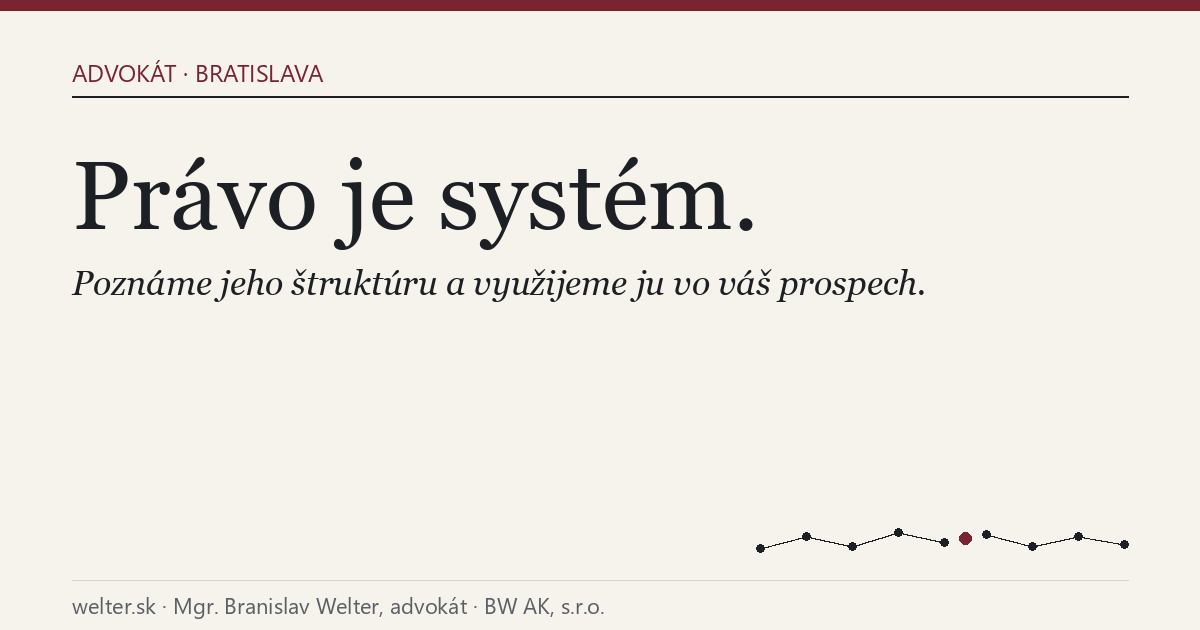
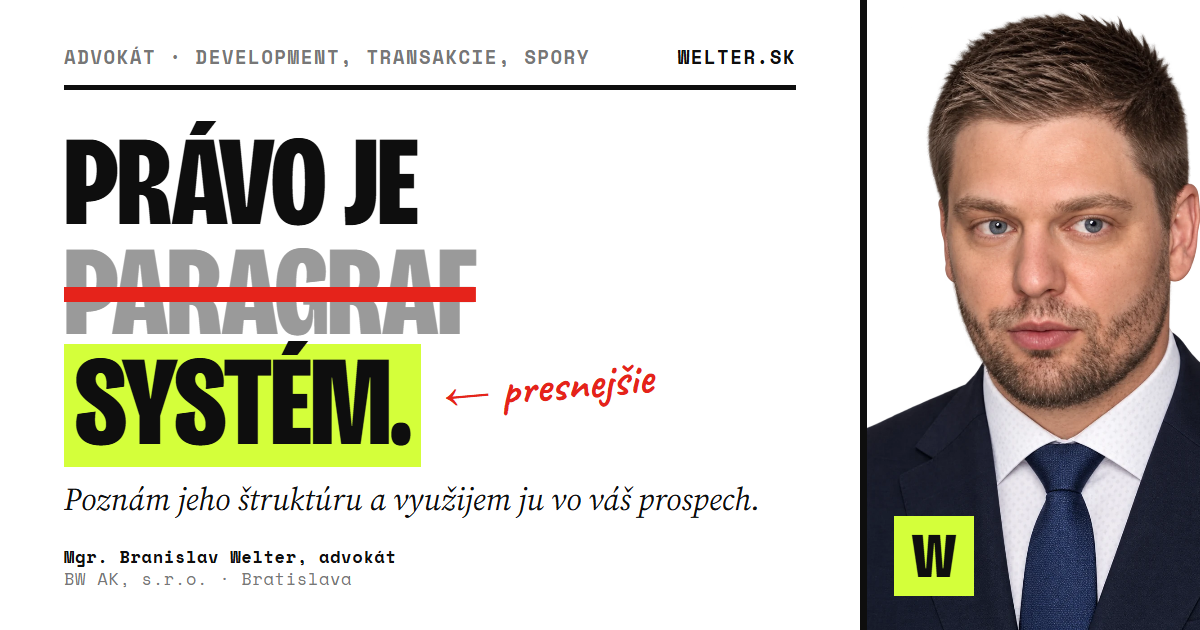
Tón v 1. osobe singuláru, OG obrázky v Brand v1, register médií na mobile
Texty, kde web hovoril za kanceláriu v pluráli, sú v prvej osobe
(„Poznám jeho štruktúru a využijem ju vo váš prospech“, „Napíšte mi“,
„Kde pracujem so štruktúrou“…), vrátane meta description, OG, JSON-LD,
llms.txt a CTA v postrehu. BW AK, s.r.o. ostáva ako firma v pätičke,
kontakte a právnych údajoch; zásady ochrany osobných údajov a lišta
súhlasu hovoria naďalej za prevádzkovateľa.

OG obrázky default.png a postreh (1200×630) prerobené do Brand v1
(rovnaké názvy súborov, URL sa nemenia). Register výstupov na mobile:
dátum a popisky v jednom riadku, titulok pod nimi. Oprava „s.r.o..“
v boxe o autorovi.

Claude-Session: https://claude.ai/code/session_01JwfTDJNpFNvCG3DSFbcCKt

diff --git a/index.html b/index.html
@@ -4,13 +4,13 @@
 <meta charset="utf-8">
 <meta name="viewport" content="width=device-width, initial-scale=1">
 <title>Mgr. Branislav Welter, advokát – BW AK, s.r.o.</title>
-<meta name="description" content="Mgr. Branislav Welter, advokát. Právo je systém. Poznáme jeho štruktúru a využijeme ju vo váš prospech.">
+<meta name="description" content="Mgr. Branislav Welter, advokát. Právo je systém. Poznám jeho štruktúru a využijem ju vo váš prospech.">
 <link rel="canonical" href="https://www.welter.sk/">
 <meta property="og:type" content="website">
 <meta property="og:locale" content="sk_SK">
 <meta property="og:site_name" content="BW AK, s.r.o. – Mgr. Branislav Welter, advokát">
 <meta property="og:title" content="Mgr. Branislav Welter, advokát – BW AK, s.r.o.">
-<meta property="og:description" content="Mgr. Branislav Welter, advokát. Právo je systém. Poznáme jeho štruktúru a využijeme ju vo váš prospech.">
+<meta property="og:description" content="Mgr. Branislav Welter, advokát. Právo je systém. Poznám jeho štruktúru a využijem ju vo váš prospech.">
 <meta property="og:url" content="https://www.welter.sk/">
 <meta property="og:image" content="https://www.welter.sk/img/og/default.png">
 <meta property="og:image:width" content="1200">
@@ -25,7 +25,7 @@
 <link rel="stylesheet" href="/assets/css/site.css">
 <link rel="icon" href="/favicon.svg" type="image/svg+xml">
 <link rel="alternate" type="application/rss+xml" title="Postrehy – welter.sk" href="/feed.xml">
-<script type="application/ld+json">{"@context":"https://schema.org","@graph":[{"@type":"LegalService","@id":"https://www.welter.sk/#organization","name":"BW AK, s.r.o.","legalName":"BW AK, s.r.o.","alternateName":"Advokátska kancelária Welter","description":"Mgr. Branislav Welter, advokát. Právo je systém. Poznáme jeho štruktúru a využijeme ju vo váš prospech.","url":"https://www.welter.sk/","telephone":"+421908849910","email":"advokat@welter.sk","image":"https://www.welter.sk/img/og/default.png","address":{"@type":"PostalAddress","streetAddress":"Dunajská 7614/8","addressLocality":"Bratislava","postalCode":"811 08","addressCountry":"SK"},"geo":{"@type":"GeoCoordinates","latitude":48.1445086,"longitude":17.1149464},"hasMap":"https://www.google.com/maps/place/Dunajsk%C3%A1+8/@48.1445086,17.1149464,19z/data=!4m7!3m6!1s0x476c8943e3603dc7:0x4184066fa842aa5f!4b1!8m2!3d48.1445086!4d17.1149464!16s%2Fg%2F11rp450kx6","areaServed":"SK","priceRange":"na dohodu","identifier":{"@type":"PropertyValue","name":"IČO","propertyID":"ICO","value":"56621957"},"knowsAbout":["Development","Realitné a transakčné štruktúrovanie","Majetkové a obchodné spory"],"employee":{"@id":"https://www.welter.sk/#branislav-welter"},"founder":{"@id":"https://www.welter.sk/#branislav-welter"}},{"@type":"Person","@id":"https://www.welter.sk/#branislav-welter","name":"Mgr. Branislav Welter","honorificPrefix":"Mgr.","givenName":"Branislav","familyName":"Welter","jobTitle":"advokát","worksFor":{"@id":"https://www.welter.sk/#organization"},"url":"https://www.welter.sk/","memberOf":{"@type":"Organization","name":"Slovenská advokátska komora","url":"https://www.sak.sk/"},"identifier":{"@type":"PropertyValue","name":"Licencia SAK","propertyID":"SAK","value":"8229"},"subjectOf":[{"@id":"https://www.welter.sk/media/#stvr-2026-10-11-projekty-bez-opravnenia"},{"@id":"https://www.welter.sk/media/#stvr-2026-09-16-zanedbany-pozemok"},{"@id":"https://www.welter.sk/media/#stvr-2026-06-25-zachrana-maciek"},{"@id":"https://www.welter.sk/media/#stvr-2026-06-14-vytapanie-susedia"},{"@id":"https://www.welter.sk/media/#stvr-2026-04-15-auto-poskodene-skodova-udalost"},{"@id":"https://www.welter.sk/media/#stvr-2026-04-24-amnestia-chatka"},{"@id":"https://www.welter.sk/media/#stvr-2026-03-29-predrazene-revizie"},{"@id":"https://www.welter.sk/media/#stvr-2026-03-21-banovce-dodavka-poistovna"},{"@id":"https://www.welter.sk/media/#stvr-2026-02-27-nahrobne-kamene-trencin"},{"@id":"https://www.welter.sk/media/#stvr-2026-02-08-samozvani-revizni-technici"},{"@id":"https://www.welter.sk/media/#stvr-2025-12-07-poplatok-za-odpad"},{"@id":"https://www.welter.sk/media/#stvr-2025-09-19-reklamacia-dovolenka"},{"@id":"https://www.welter.sk/media/#stvr-2025-10-26-vodomer-platba-za-vodu"},{"@id":"https://www.welter.sk/media/#stvr-2025-10-dunajska-luzna-autolakovna"},{"@id":"https://www.welter.sk/media/#stvr-2025-09-21-opakovane-poziare-domu"},{"@id":"https://www.welter.sk/media/#stvr-2025-06-22-zbierky-darcovia"},{"@id":"https://www.welter.sk/media/#stvr-2025-06-01-zamietnute-prispevky"},{"@id":"https://www.welter.sk/media/#stvr-2025-05-25-fond-oprav-spravca"},{"@id":"https://www.welter.sk/media/#stvr-2025-05-04-socialna-poistovna-dlh"},{"@id":"https://www.welter.sk/media/#stvr-2025-04-06-reklamacia-telefonu"},{"@id":"https://www.welter.sk/media/#stvr-2025-03-23-neplatiaci-najomnici"},{"@id":"https://www.welter.sk/media/#stvr-2025-03-02-eshop-nedodany-tovar"},{"@id":"https://www.welter.sk/media/#stvr-2025-02-09-zumpa-sused"},{"@id":"https://www.welter.sk/media/#stvr-2025-01-19-zruseny-festival"},{"@id":"https://www.welter.sk/media/#stvr-2024-12-15-ukradnute-auto-lizing"},{"@id":"https://www.welter.sk/media/#stvr-2024-12-01-podvod-uspory-banka"},{"@id":"https://www.welter.sk/media/#stvr-2024-11-07-havarijna-cesta"},{"@id":"https://www.welter.sk/media/#stvr-2024-10-26-rozkopana-cesta"},{"@id":"https://www.welter.sk/media/#rtvs-2024-09-24-inzerat-zneuzita-identita"},{"@id":"https://www.welter.sk/media/#rtvs-2024-06-17-rucenie-dom"},{"@id":"https://www.welter.sk/media/#rtvs-2024-05-26-sikana-na-pracovisku"},{"@id":"https://www.welter.sk/media/#rtvs-2024-05-12-pad-pocas-operacie"},{"@id":"https://www.welter.sk/media/#rtvs-2024-03-24-smetisko-bratislava-rukojemnici"},{"@id":"https://www.welter.sk/media/#rtvs-2024-02-28-ucelove-manzelstvo"},{"@id":"https://www.welter.sk/media/#rtvs-2024-01-14-nevyvazena-zmluva-dom"},{"@id":"https://www.welter.sk/media/#rtvs-2023-12-03-namiesto-studenej-vlazna-voda"},{"@id":"https://www.welter.sk/media/#rtvs-2023-11-04-zakon-mimovladne-organizacie"},{"@id":"https://www.welter.sk/media/#rtvs-2023-11-01-agresivny-pes"},{"@id":"https://www.welter.sk/media/#zenskyweb-2023-02-02-ruka-podava-ruze"},{"@id":"https://www.welter.sk/media/#zenskyweb-2023-01-26-podvodnik-pod-vodu"},{"@id":"https://www.welter.sk/media/#zenskyweb-2023-03-10-kto-do-teba-granatom"},{"@id":"https://www.welter.sk/media/#zenskyweb-2023-01-12-dlho-dlzny-dlznik"},{"@id":"https://www.welter.sk/media/#zenskyweb-2023-01-02-z-porodnej-saly"},{"@id":"https://www.welter.sk/media/#slovenka-2022-trestne-nepravo"},{"@id":"https://www.welter.sk/media/#slovenka-2022-diskriminacia-veku"},{"@id":"https://www.welter.sk/media/#slovenka-2022-mozem-deti-vydedit"},{"@id":"https://www.welter.sk/media/#emma-2021-02-podnikanie-byrokracia"}],"image":"https://www.welter.sk/img/portret.jpg"},{"@type":"WebSite","@id":"https://www.welter.sk/#website","name":"welter.sk","url":"https://www.welter.sk/","inLanguage":"sk","publisher":{"@id":"https://www.welter.sk/#organization"}},{"@type":"WebPage","@id":"https://www.welter.sk/#webpage","url":"https://www.welter.sk/","name":"Mgr. Branislav Welter, advokát – BW AK, s.r.o.","isPartOf":{"@id":"https://www.welter.sk/#website"},"about":{"@id":"https://www.welter.sk/#organization"},"inLanguage":"sk"}]}</script>
+<script type="application/ld+json">{"@context":"https://schema.org","@graph":[{"@type":"LegalService","@id":"https://www.welter.sk/#organization","name":"BW AK, s.r.o.","legalName":"BW AK, s.r.o.","alternateName":"Advokátska kancelária Welter","description":"Mgr. Branislav Welter, advokát. Právo je systém. Poznám jeho štruktúru a využijem ju vo váš prospech.","url":"https://www.welter.sk/","telephone":"+421908849910","email":"advokat@welter.sk","image":"https://www.welter.sk/img/og/default.png","address":{"@type":"PostalAddress","streetAddress":"Dunajská 7614/8","addressLocality":"Bratislava","postalCode":"811 08","addressCountry":"SK"},"geo":{"@type":"GeoCoordinates","latitude":48.1445086,"longitude":17.1149464},"hasMap":"https://www.google.com/maps/place/Dunajsk%C3%A1+8/@48.1445086,17.1149464,19z/data=!4m7!3m6!1s0x476c8943e3603dc7:0x4184066fa842aa5f!4b1!8m2!3d48.1445086!4d17.1149464!16s%2Fg%2F11rp450kx6","areaServed":"SK","priceRange":"na dohodu","identifier":{"@type":"PropertyValue","name":"IČO","propertyID":"ICO","value":"56621957"},"knowsAbout":["Development","Realitné a transakčné štruktúrovanie","Majetkové a obchodné spory"],"employee":{"@id":"https://www.welter.sk/#branislav-welter"},"founder":{"@id":"https://www.welter.sk/#branislav-welter"}},{"@type":"Person","@id":"https://www.welter.sk/#branislav-welter","name":"Mgr. Branislav Welter","honorificPrefix":"Mgr.","givenName":"Branislav","familyName":"Welter","jobTitle":"advokát","worksFor":{"@id":"https://www.welter.sk/#organization"},"url":"https://www.welter.sk/","memberOf":{"@type":"Organization","name":"Slovenská advokátska komora","url":"https://www.sak.sk/"},"identifier":{"@type":"PropertyValue","name":"Licencia SAK","propertyID":"SAK","value":"8229"},"subjectOf":[{"@id":"https://www.welter.sk/media/#stvr-2026-10-11-projekty-bez-opravnenia"},{"@id":"https://www.welter.sk/media/#stvr-2026-09-16-zanedbany-pozemok"},{"@id":"https://www.welter.sk/media/#stvr-2026-06-25-zachrana-maciek"},{"@id":"https://www.welter.sk/media/#stvr-2026-06-14-vytapanie-susedia"},{"@id":"https://www.welter.sk/media/#stvr-2026-04-15-auto-poskodene-skodova-udalost"},{"@id":"https://www.welter.sk/media/#stvr-2026-04-24-amnestia-chatka"},{"@id":"https://www.welter.sk/media/#stvr-2026-03-29-predrazene-revizie"},{"@id":"https://www.welter.sk/media/#stvr-2026-03-21-banovce-dodavka-poistovna"},{"@id":"https://www.welter.sk/media/#stvr-2026-02-27-nahrobne-kamene-trencin"},{"@id":"https://www.welter.sk/media/#stvr-2026-02-08-samozvani-revizni-technici"},{"@id":"https://www.welter.sk/media/#stvr-2025-12-07-poplatok-za-odpad"},{"@id":"https://www.welter.sk/media/#stvr-2025-09-19-reklamacia-dovolenka"},{"@id":"https://www.welter.sk/media/#stvr-2025-10-26-vodomer-platba-za-vodu"},{"@id":"https://www.welter.sk/media/#stvr-2025-10-dunajska-luzna-autolakovna"},{"@id":"https://www.welter.sk/media/#stvr-2025-09-21-opakovane-poziare-domu"},{"@id":"https://www.welter.sk/media/#stvr-2025-06-22-zbierky-darcovia"},{"@id":"https://www.welter.sk/media/#stvr-2025-06-01-zamietnute-prispevky"},{"@id":"https://www.welter.sk/media/#stvr-2025-05-25-fond-oprav-spravca"},{"@id":"https://www.welter.sk/media/#stvr-2025-05-04-socialna-poistovna-dlh"},{"@id":"https://www.welter.sk/media/#stvr-2025-04-06-reklamacia-telefonu"},{"@id":"https://www.welter.sk/media/#stvr-2025-03-23-neplatiaci-najomnici"},{"@id":"https://www.welter.sk/media/#stvr-2025-03-02-eshop-nedodany-tovar"},{"@id":"https://www.welter.sk/media/#stvr-2025-02-09-zumpa-sused"},{"@id":"https://www.welter.sk/media/#stvr-2025-01-19-zruseny-festival"},{"@id":"https://www.welter.sk/media/#stvr-2024-12-15-ukradnute-auto-lizing"},{"@id":"https://www.welter.sk/media/#stvr-2024-12-01-podvod-uspory-banka"},{"@id":"https://www.welter.sk/media/#stvr-2024-11-07-havarijna-cesta"},{"@id":"https://www.welter.sk/media/#stvr-2024-10-26-rozkopana-cesta"},{"@id":"https://www.welter.sk/media/#rtvs-2024-09-24-inzerat-zneuzita-identita"},{"@id":"https://www.welter.sk/media/#rtvs-2024-06-17-rucenie-dom"},{"@id":"https://www.welter.sk/media/#rtvs-2024-05-26-sikana-na-pracovisku"},{"@id":"https://www.welter.sk/media/#rtvs-2024-05-12-pad-pocas-operacie"},{"@id":"https://www.welter.sk/media/#rtvs-2024-03-24-smetisko-bratislava-rukojemnici"},{"@id":"https://www.welter.sk/media/#rtvs-2024-02-28-ucelove-manzelstvo"},{"@id":"https://www.welter.sk/media/#rtvs-2024-01-14-nevyvazena-zmluva-dom"},{"@id":"https://www.welter.sk/media/#rtvs-2023-12-03-namiesto-studenej-vlazna-voda"},{"@id":"https://www.welter.sk/media/#rtvs-2023-11-04-zakon-mimovladne-organizacie"},{"@id":"https://www.welter.sk/media/#rtvs-2023-11-01-agresivny-pes"},{"@id":"https://www.welter.sk/media/#zenskyweb-2023-02-02-ruka-podava-ruze"},{"@id":"https://www.welter.sk/media/#zenskyweb-2023-01-26-podvodnik-pod-vodu"},{"@id":"https://www.welter.sk/media/#zenskyweb-2023-03-10-kto-do-teba-granatom"},{"@id":"https://www.welter.sk/media/#zenskyweb-2023-01-12-dlho-dlzny-dlznik"},{"@id":"https://www.welter.sk/media/#zenskyweb-2023-01-02-z-porodnej-saly"},{"@id":"https://www.welter.sk/media/#slovenka-2022-trestne-nepravo"},{"@id":"https://www.welter.sk/media/#slovenka-2022-diskriminacia-veku"},{"@id":"https://www.welter.sk/media/#slovenka-2022-mozem-deti-vydedit"},{"@id":"https://www.welter.sk/media/#emma-2021-02-podnikanie-byrokracia"}],"image":"https://www.welter.sk/img/portret.jpg"},{"@type":"WebSite","@id":"https://www.welter.sk/#website","name":"welter.sk","url":"https://www.welter.sk/","inLanguage":"sk","publisher":{"@id":"https://www.welter.sk/#organization"}},{"@type":"WebPage","@id":"https://www.welter.sk/#webpage","url":"https://www.welter.sk/","name":"Mgr. Branislav Welter, advokát – BW AK, s.r.o.","isPartOf":{"@id":"https://www.welter.sk/#website"},"about":{"@id":"https://www.welter.sk/#organization"},"inLanguage":"sk"}]}</script>
 <script>
 window.CONSENT_CFG={key:'welter_consent_v1',ga:/(^|\.)welter\.sk$/.test(location.hostname)?'G-4FHE8V2S4T':''};
 window.dataLayer=window.dataLayer||[];function gtag(){dataLayer.push(arguments);}
@@ -54,8 +54,8 @@ gtag('config','G-4FHE8V2S4T',{allow_google_signals:false,allow_ad_personalizatio
   <span class="kicker">Advokát · Development, transakcie, spory</span>
   <h1 class="hero__h1" id="hero-h">Právo je <span class="st" aria-hidden="true">paragraf</span> <span class="mk">systém.</span><span class="hand" aria-hidden="true">← presnejšie</span></h1>
   <div class="hero__text">
-   <h2 class="hero__sub">Poznáme jeho štruktúru a&nbsp;využijeme ju vo váš prospech.</h2>
-   <p class="hero__lede">Pri zložitých majetkových, developerských a&nbsp;transakčných projektoch nerozhoduje znalosť jednotlivého paragrafu, ale pochopenie celej štruktúry — vzťahov, rizík, dôsledkov a&nbsp;načasovania. Systém má fungujúce časti, ale aj zraniteľnosti — poznáme oboje a&nbsp;vieme s&nbsp;tým pracovať.</p>
+   <h2 class="hero__sub">Poznám jeho štruktúru a&nbsp;využijem ju vo váš prospech.</h2>
+   <p class="hero__lede">Pri zložitých majetkových, developerských a&nbsp;transakčných projektoch nerozhoduje znalosť jednotlivého paragrafu, ale pochopenie celej štruktúry — vzťahov, rizík, dôsledkov a&nbsp;načasovania. Systém má fungujúce časti, ale aj zraniteľnosti — poznám oboje a&nbsp;viem s&nbsp;tým pracovať.</p>
    <a class="hero__latest" href="/media/#stvr-2026-10-11-projekty-bez-opravnenia"><span class="kicker">Naposledy v&nbsp;médiách</span><span class="hero__latest-t"><span class="u">Projektová dokumentácia od osoby bez oprávnenia</span></span><span class="meta">STVR · Občan za dverami · vysielané <time datetime="2026-10-11">11. 10. 2026</time></span></a>
   </div>
   <figure class="portrait">
@@ -69,13 +69,13 @@ gtag('config','G-4FHE8V2S4T',{allow_google_signals:false,allow_ad_personalizatio
 
 <section class="section" id="services" aria-labelledby="oblasti-h">
  <div class="wrap">
-  <div class="section__head"><div><span class="kicker">Oblasti</span><h2 class="h2" id="oblasti-h">Kde pracujeme so štruktúrou</h2></div></div>
+  <div class="section__head"><div><span class="kicker">Oblasti</span><h2 class="h2" id="oblasti-h">Kde pracujem so štruktúrou</h2></div></div>
   <div class="areas">
    <article class="area">
     <div class="area__top"><span class="area__num" aria-hidden="true">01</span></div>
     <div class="area__fig"><svg viewBox="0 0 240 140" aria-hidden="true" focusable="false"><g fill="none" stroke="#0E0E0E" stroke-width="0.8" stroke-linejoin="round" stroke-linecap="round" opacity=".85"><polyline points="60,122 60,66 120,24 180,66 180,122 60,122"/><polyline points="104,122 104,90 136,90 136,122"/><polyline points="150,45 150,30 162,30 162,53"/><polyline points="78,80 92,80 92,94 78,94 78,80"/></g><g fill="none" stroke="#DCDCDC" stroke-width="0.6"><line x1="18" y1="24" x2="60" y2="66"/><line x1="214" y1="18" x2="180" y2="66"/><line x1="226" y1="120" x2="180" y2="122"/></g><g fill="#0E0E0E"><circle cx="60" cy="122" r="2"/><circle cx="60" cy="66" r="2"/><circle cx="120" cy="24" r="2"/><circle cx="180" cy="66" r="2"/><circle cx="180" cy="122" r="2"/><circle cx="104" cy="90" r="2"/><circle cx="136" cy="90" r="2"/><circle cx="150" cy="30" r="2"/><circle cx="162" cy="30" r="2"/><circle cx="78" cy="80" r="2"/><circle cx="92" cy="94" r="2"/></g><circle cx="120" cy="24" r="3.2" fill="#E5231B"/><g fill="#777777"><circle cx="18" cy="24" r="1"/><circle cx="214" cy="18" r="1"/><circle cx="226" cy="120" r="1"/><circle cx="14" cy="112" r="1"/><circle cx="196" cy="132" r="1"/><circle cx="40" cy="6" r="1"/></g></svg></div>
     <h3>Development — za stavebníka, ale aj suseda</h3>
-    <p>Úspešné projekty sú tie, pri ktorých je advokát od prvotnej myšlienky — nie až po dvoch rokoch prieťahov. Projekty konzultujeme od posúdenia možností územného plánu cez úpravu vzťahov vecnými bremenami, nájomnými zmluvami či inými právami. Už pri zrode myšlienky nastavujeme optimálnu štruktúru z&nbsp;hľadiska predajnosti, rizík, optimalizácie nákladov (nielen daňových) a&nbsp;možností financovania. Pokračujeme zastupovaním v&nbsp;konaniach až po finálny predaj, rokovania s&nbsp;kupujúcimi a&nbsp;ich bankami, katastrálne konania či spory z&nbsp;vád. Barikádu poznáme zo všetkých strán — vieme, ako rozmýšľa developer, kupujúci aj nespokojný sused; vieme, ako má konať stavebný úrad a&nbsp;čo robiť, keď nekoná. Rozumieme „starému“ stavebnému zákonu (50/1976 Zb.) aj novému (25/2025 Z. z.) vrátane príležitostí, ktoré priniesli prechodné ustanovenia pre dodatočnú legalizáciu stavieb.</p>
+    <p>Úspešné projekty sú tie, pri ktorých je advokát od prvotnej myšlienky — nie až po dvoch rokoch prieťahov. Projekty konzultujem od posúdenia možností územného plánu cez úpravu vzťahov vecnými bremenami, nájomnými zmluvami či inými právami. Už pri zrode myšlienky nastavujem optimálnu štruktúru z&nbsp;hľadiska predajnosti, rizík, optimalizácie nákladov (nielen daňových) a&nbsp;možností financovania. Pokračujem zastupovaním v&nbsp;konaniach až po finálny predaj, rokovania s&nbsp;kupujúcimi a&nbsp;ich bankami, katastrálne konania či spory z&nbsp;vád. Barikádu poznám zo všetkých strán — viem, ako rozmýšľa developer, kupujúci aj nespokojný sused; viem, ako má konať stavebný úrad a&nbsp;čo robiť, keď nekoná. Rozumiem „starému“ stavebnému zákonu (50/1976 Zb.) aj novému (25/2025 Z. z.) vrátane príležitostí, ktoré priniesli prechodné ustanovenia pre dodatočnú legalizáciu stavieb.</p>
    </article>
    <article class="area">
     <div class="area__top"><span class="area__num" aria-hidden="true">02</span></div>
@@ -87,7 +87,7 @@ gtag('config','G-4FHE8V2S4T',{allow_google_signals:false,allow_ad_personalizatio
     <div class="area__top"><span class="area__num" aria-hidden="true">03</span></div>
     <div class="area__fig"><svg viewBox="0 0 240 140" aria-hidden="true" focusable="false"><g fill="none" stroke="#0E0E0E" stroke-width="0.8" stroke-linejoin="round" stroke-linecap="round" opacity=".85"><polyline points="16,34 94,70 16,106"/><polyline points="224,34 146,70 224,106"/><polyline points="126,22 110,64 130,76 114,118"/><polyline points="16,34 16,106"/><polyline points="224,34 224,106"/></g><g fill="none" stroke="#DCDCDC" stroke-width="0.6"><line x1="94" y1="70" x2="110" y2="64"/><line x1="146" y1="70" x2="130" y2="76"/></g><g fill="#0E0E0E"><circle cx="16" cy="34" r="2"/><circle cx="94" cy="70" r="2"/><circle cx="16" cy="106" r="2"/><circle cx="224" cy="34" r="2"/><circle cx="146" cy="70" r="2"/><circle cx="224" cy="106" r="2"/><circle cx="126" cy="22" r="2"/><circle cx="110" cy="64" r="2"/><circle cx="130" cy="76" r="2"/><circle cx="114" cy="118" r="2"/></g><circle cx="120" cy="70" r="3.2" fill="#E5231B"/><g fill="#777777"><circle cx="18" cy="24" r="1"/><circle cx="214" cy="18" r="1"/><circle cx="226" cy="120" r="1"/><circle cx="14" cy="112" r="1"/><circle cx="196" cy="132" r="1"/><circle cx="40" cy="6" r="1"/></g></svg></div>
     <h3>Majetkové a&nbsp;obchodné spory — analytická obrana</h3>
-    <p>Najlepší spor je ten, ktorý nikdy nevznikne — predchádzame mu dobre postavenými zmluvami. Spory sú však bežnou súčasťou podnikania aj súkromného života a&nbsp;advokát je na nezaplatenie už vo fáze, keď je spor ešte len na obzore. Dôkladnou analýzou východiskových podmienok a&nbsp;dostupných možností vieme klienta pripraviť na spor tak, aby v&nbsp;konaní držal taktovku, a&nbsp;nie iba lístok do hľadiska.</p>
+    <p>Najlepší spor je ten, ktorý nikdy nevznikne — predchádzam mu dobre postavenými zmluvami. Spory sú však bežnou súčasťou podnikania aj súkromného života a&nbsp;advokát je na nezaplatenie už vo fáze, keď je spor ešte len na obzore. Dôkladnou analýzou východiskových podmienok a&nbsp;dostupných možností viem klienta pripraviť na spor tak, aby v&nbsp;konaní držal taktovku, a&nbsp;nie iba lístok do hľadiska.</p>
    </article>
   </div>
  </div>
@@ -98,7 +98,7 @@ gtag('config','G-4FHE8V2S4T',{allow_google_signals:false,allow_ad_personalizatio
   <div class="night__head"><div>
    <span class="kicker">Médiá</span>
    <h2 class="h2" id="media-h">Keď systém zlyhá</h2>
-   <p class="night__intro">Poisťovňa odmietne plniť. Úrad nekoná, nedoručuje, zamietne. Správca zlyhá. Práve preto, že rozumieme štruktúre systému, vieme presne pomenovať, kde sa zlomil — a&nbsp;navrhnúť nápravu. Médiá nás k&nbsp;týmto prípadom volajú ako odborný hlas:</p>
+   <p class="night__intro">Poisťovňa odmietne plniť. Úrad nekoná, nedoručuje, zamietne. Správca zlyhá. Práve preto, že rozumiem štruktúre systému, viem presne pomenovať, kde sa zlomil — a&nbsp;navrhnúť nápravu. Médiá ma k&nbsp;týmto prípadom volajú ako odborný hlas:</p>
   </div><div class="night__fig"><svg viewBox="0 0 240 140" aria-hidden="true" focusable="false"><g fill="none" stroke="#FFFFFF" stroke-width="0.8" stroke-linejoin="round" stroke-linecap="round" opacity=".85"><polyline points="10,60 36,52 62,58 88,50 114,56"/><polyline points="134,62 146,80 150,102 146,124"/><polyline points="170,52 196,58 222,50 232,54"/></g><g fill="none" stroke="#3A3A3A" stroke-width="0.6"><line x1="134" y1="62" x2="170" y2="52"/></g><g fill="#FFFFFF"><circle cx="10" cy="60" r="2"/><circle cx="36" cy="52" r="2"/><circle cx="62" cy="58" r="2"/><circle cx="88" cy="50" r="2"/><circle cx="114" cy="56" r="2"/><circle cx="134" cy="62" r="2"/><circle cx="146" cy="80" r="2"/><circle cx="150" cy="102" r="2"/><circle cx="146" cy="124" r="2"/><circle cx="170" cy="52" r="2"/><circle cx="196" cy="58" r="2"/><circle cx="222" cy="50" r="2"/></g><circle cx="124" cy="59" r="3.2" fill="#D4FF3A"/><g fill="#8A8A8A"><circle cx="18" cy="24" r="1"/><circle cx="214" cy="18" r="1"/><circle cx="226" cy="120" r="1"/><circle cx="14" cy="112" r="1"/><circle cx="196" cy="132" r="1"/><circle cx="40" cy="6" r="1"/></g></svg></div></div>
   <div class="media-grid">
    <article class="lead-card" id="vystup-hlavny">
@@ -189,7 +189,7 @@ gtag('config','G-4FHE8V2S4T',{allow_google_signals:false,allow_ad_personalizatio
     <span class="meta">Mgr. Branislav Welter · 6 min čítania</span>
    </article>
   </div>
-  <p class="upcoming">Ďalšie postrehy pripravujeme.</p>
+  <p class="upcoming">Ďalšie postrehy pripravujem.</p>
   <a class="all-link" href="/postrehy/"><span class="u">Všetky postrehy (1)</span><span class="arrow" aria-hidden="true">→</span></a>
  </div>
 </section>
@@ -200,11 +200,11 @@ gtag('config','G-4FHE8V2S4T',{allow_google_signals:false,allow_ad_personalizatio
  <div class="wrap">
   <span class="kicker">Kontakt</span>
   <h2 class="sr-only" id="kontakt-h">Kontakt</h2>
-  <p class="contact__note">Napíšte, o&nbsp;akú situáciu ide. Odpovieme, či a&nbsp;za akých podmienok ju vieme prevziať.</p>
+  <p class="contact__note">Napíšte mi, o&nbsp;akú situáciu ide. Odpoviem, či a&nbsp;za akých podmienok ju viem prevziať.</p>
   <div><a class="contact__mail" href="mailto:advokat@welter.sk">advokat@welter.sk</a></div>
   <div class="contact__row">
    <div><span class="label">Telefón</span><a href="tel:+421908849910">+421&nbsp;908&nbsp;849&nbsp;910</a></div>
-   <div><span class="label">Kancelária</span><address>Dunajská 8<br>811 08 Bratislava</address><small>Klientov prijímame na Dunajskej 8 po predchádzajúcej dohode termínu. Úradná adresa: Dunajská 7614/8.</small><a class="maplink" href="https://www.google.com/maps/place/Dunajsk%C3%A1+8/@48.1445086,17.1149464,19z/data=!4m7!3m6!1s0x476c8943e3603dc7:0x4184066fa842aa5f!4b1!8m2!3d48.1445086!4d17.1149464!16s%2Fg%2F11rp450kx6" target="_blank" rel="noopener">Google Mapy<span class="sr-only"> (otvorí sa v&nbsp;novom okne)</span> ↗</a> · <a class="maplink" href="https://maps.apple.com/?ll=48.1445086,17.1149464&amp;q=Dunajsk%C3%A1%208%2C%20811%2008%20Bratislava" target="_blank" rel="noopener">Apple Mapy<span class="sr-only"> (otvorí sa v&nbsp;novom okne)</span> ↗</a></div>
+   <div><span class="label">Kancelária</span><address>Dunajská 8<br>811 08 Bratislava</address><small>Klientov prijímam na Dunajskej 8 po predchádzajúcej dohode termínu. Úradná adresa: Dunajská 7614/8.</small><a class="maplink" href="https://www.google.com/maps/place/Dunajsk%C3%A1+8/@48.1445086,17.1149464,19z/data=!4m7!3m6!1s0x476c8943e3603dc7:0x4184066fa842aa5f!4b1!8m2!3d48.1445086!4d17.1149464!16s%2Fg%2F11rp450kx6" target="_blank" rel="noopener">Google Mapy<span class="sr-only"> (otvorí sa v&nbsp;novom okne)</span> ↗</a> · <a class="maplink" href="https://maps.apple.com/?ll=48.1445086,17.1149464&amp;q=Dunajsk%C3%A1%208%2C%20811%2008%20Bratislava" target="_blank" rel="noopener">Apple Mapy<span class="sr-only"> (otvorí sa v&nbsp;novom okne)</span> ↗</a></div>
    <div><span class="label">Elektronická schránka</span><span style="font-size:1.375rem">ico://sk/56621957</span><small>Schránka ÚPVS: E0007209226 (suffix 20069)</small></div>
   </div>
  </div>

diff --git a/postrehy/nahrada-za-pozemky-pod-stavbami-obci/index.html b/postrehy/nahrada-za-pozemky-pod-stavbami-obci/index.html
@@ -64,12 +64,12 @@ gtag('config','G-4FHE8V2S4T',{allow_google_signals:false,allow_ad_personalizatio
  <div class="body wrap">
   <div class="row"><div class="txt"><h2>Odkiaľ problém pochádza</h2></div></div><div class="row"><div class="txt"><p>Po roku 1990 prešli na obce a&nbsp;vyššie územné celky tisíce stavieb zo štátu: miestne cesty, chodníky, školy či námestia. Pozemky pod nimi však často patrili súkromným osobám. Zákon č. 66/2009 Z. z. mal tento stav vyriešiť. K&nbsp;1. júlu 2009 zriadil v&nbsp;prospech obce zákonné vecné bremeno. Jeho obsahom je držba a&nbsp;užívanie pozemku pod stavbou vrátane priľahlej plochy, ktorá so stavbou tvorí celok. Vlastník ho musí strpieť, kým obec pozemok nezamení alebo kým štát nevykoná pozemkové úpravy.</p></div><aside class="note" aria-label="Poznámka na okraji: Zákon č. 66/2009 Z. z."><b><span class="sym" aria-hidden="true">§</span>Zákon č. 66/2009 Z. z.</b>o&nbsp;niektorých opatreniach pri majetkovoprávnom usporiadaní pozemkov pod stavbami; vecné bremeno vzniklo k&nbsp;1. 7. 2009</aside></div><div class="row"><div class="txt"><p>Zámeny boli výnimkou a&nbsp;pozemkové úpravy sa neuskutočnili. Dočasné riešenie tak trvá už viac ako 17 rokov. Zákon navyše vôbec neupravuje, akú náhradu má vlastník za obmedzenie dostať. Nárok preto vyplýva priamo z&nbsp;čl. 20 ods. 4 Ústavy: vlastníctvo možno obmedziť len za primeranú náhradu.</p></div><aside class="note" aria-label="Poznámka na okraji: Čl. 20 ods. 4 Ústavy SR"><b><span class="sym" aria-hidden="true">§</span>Čl. 20 ods. 4 Ústavy SR</b>obmedzenie vlastníckeho práva len v&nbsp;nevyhnutnej miere, vo verejnom záujme a&nbsp;za primeranú náhradu</aside></div><div class="row"><div class="txt"><h2>Doterajšia prax: jedna náhrada a&nbsp;dávno premlčaná</h2></div></div><div class="row"><div class="txt"><p>Najvyšší súd SR v&nbsp;rozhodnutí sp. zn. 8Cdo/17/2019 z&nbsp;roku 2020 zjednotil prax tak, že náhrada je <b>jednorazová</b>. Nárok na ňu vznikol 1. júla 2009 a&nbsp;premlčal sa najneskôr 1. júla 2012. Ústavný súd ešte v&nbsp;rokoch 2023 až 2025 odmietal sťažnosti vlastníkov, ktorí s&nbsp;týmto výkladom nesúhlasili. Odvtedy obce, ich podniky aj súdy používali rovnakú vetu: <i>„náhrada je premlčaná“</i>.</p></div><aside class="note" aria-label="Poznámka na okraji: NS SR 8Cdo/17/2019"><b>NS SR 8Cdo/17/2019</b>jednorazová náhrada, premlčanie najneskôr 1. 7. 2012</aside></div><div class="row"><div class="txt"><h2>Obrat v&nbsp;štyroch rozhodnutiach</h2></div></div><div class="row"><div class="txt"><div class="table-wrap"><table><thead><tr><th scope="col">Rozhodnutie</th><th scope="col">Čo prinieslo</th></tr></thead><tbody><tr><td>PL. ÚS 12/2025<br>(28. 5. 2025)</td><td>Plénum prvýkrát naznačilo, že ani ustálená súdna prax nie je nemenná. To, že sa účel zákona po 16 rokoch nenaplnil, môže odôvodniť odklon od nej.</td></tr><tr><td>II. ÚS 369/2025<br>(24. 9. 2025)</td><td>Nález vo veci vlastníkov pozemkov proti mestu Košice. Ústavný súd zrušil zamietavý rozsudok krajského súdu a&nbsp;povedal, že doterajší stav <i>„nie je naďalej ústavne udržateľný“</i>. Spravodlivú rovnováhu podľa neho môže nastoliť <i>opakovaná náhrada blížiaca sa k&nbsp;trhovej hodnote</i>.</td></tr><tr><td>PL. ÚS 9/2026<br>(25. 3. 2026)</td><td>Plénum Ústavného súdu sa vyjadrilo na návrh súdu, ktorý rozhoduje spor vlastníkov proti hlavnému mestu Bratislave. Uviedlo, že po viac ako 16 rokoch <i>„nemožno zotrvať na chápaní náhrady […] ako jednorazovej“</i>. Za príčinu označilo dlhodobú nečinnosť samospráv a&nbsp;štátu.</td></tr><tr><td>PLz. ÚS 1/2026<br>(15. 4. 2026)</td><td>Zjednocujúce stanovisko pléna. Nový prístup sa uplatní na právoplatné rozhodnutia súdov vyhlásené po 27. 6. 2025.</td></tr></tbody></table></div></div></div><div class="row"><div class="txt"><p>Ústavný súd v&nbsp;uznesení PL. ÚS 9/2026 zároveň uviedol, ako bude postupovať ďalej. Zmenu majú urobiť samotné všeobecné súdy riadne odôvodneným odklonom od doterajšej praxe. Ak sa to nestane, Ústavný súd bude ich rozhodnutia rušiť na základe ústavných sťažností.</p></div><aside class="note" aria-label="Poznámka na okraji: ÚS SR PL. ÚS 9/2026"><b>ÚS SR PL. ÚS 9/2026</b>uznesenie pléna z&nbsp;25. 3. 2026</aside></div><div class="row"><div class="txt"><h2>Čo to znamená pre vlastníkov</h2></div></div><div class="row"><div class="txt"><ul><li><b>Argument premlčania od roku 2012 neobstojí.</b> Ak je náhrada opakovaná, premlčuje sa každá dávka samostatne. Vlastník sa teda môže domáhať náhrady do budúcnosti a&nbsp;spätne za obdobie, ktoré ešte nie je premlčané (spravidla dva až tri roky).</li><li><b>Výška náhrady sa má blížiť trhovej hodnote.</b> Ide o&nbsp;hodnotu užívania pozemku, napríklad obvyklé nájomné. V&nbsp;praxi ju určí znalecký posudok.</li><li><b>Žalovaným je vlastník stavby,</b> teda obec, mesto, mestská časť alebo vyšší územný celok. Nie je ním správca ani spoločnosť, ktorej obec stavbu zverila.</li><li><b>Súd prihliadne na individuálne okolnosti.</b> Môže zohľadniť napríklad to, či vlastník už v&nbsp;minulosti nejakú náhradu dostal, alebo či pozemok pod cestou kúpil špekulatívne, aby z&nbsp;neho vymáhal platby.</li><li><b>Staré prehraté spory sa neotvoria.</b> Kto prehral spor rozhodnutím, ktoré nadobudlo právoplatnosť skôr, nemôže ho zvrátiť ústavnou sťažnosťou. Novú žalobu za ďalšie obdobie to však nevylučuje.</li></ul></div><aside class="note" aria-label="Poznámka na okraji: PLz. ÚS 1/2026"><b>PLz. ÚS 1/2026</b>nový prístup platí pre právoplatné rozhodnutia vyhlásené po 27. 6. 2025</aside></div><div class="row"><div class="txt"><h2>Kde sú limity</h2></div></div><div class="row"><div class="txt"><p>Uznesenie PL. ÚS 9/2026 je odmietavé uznesenie, nie nález, ktorý by všeobecne záväzne zrušil zákon. Jeho sila spočíva v&nbsp;tom, že plénum Ústavného súdu verejne oznámilo, ako bude rozhodovať. Niektoré okresné a&nbsp;krajské súdy sa preto môžu ešte nejaký čas držať starej praxe. S&nbsp;tým treba počítať pri voľbe procesnej stratégie, najmä pri vzťahu dovolania a&nbsp;ústavnej sťažnosti. Sudca Robert Šorl k&nbsp;rozhodnutiam pripojil odlišné stanoviská. Obce z&nbsp;nich budú čerpať protiargumenty.</p></div></div><div class="row"><div class="txt"><p>Ďalším limitom sú sumy. Pri podielovom spoluvlastníctve malej výmery môže náhrada pripadajúca na jedného vlastníka vyjsť na stovky alebo nízke tisíce eur za tri roky. Spor sa preto obvykle oplatí viesť spoločne za všetkých spoluvlastníkov, napríklad za celý bytový dom.</p></div></div><div class="row"><div class="txt"><h2>Osobitný prípad: platené parkovanie na súkromnom pozemku</h2></div></div><div class="row"><div class="txt"><p>Mestá rozširujú zóny plateného parkovania a&nbsp;parkovacie miesta vyznačujú aj na cestách, pod ktorými ležia súkromné pozemky. Vlastník potom platí parkovné za státie na vlastnom pozemku a&nbsp;mesto mu zároveň tvrdí, že náhrada je premlčaná. V&nbsp;takom prípade sa oplatí overiť dve otázky:</p></div></div><div class="row"><div class="txt"><ol><li><b>Leží parkovacie miesto skutočne na ploche, kde vzniklo zákonné vecné bremeno?</b> Bremeno sa týka pozemku pod stavbou, ktorá prešla zo štátu na obec, v&nbsp;stave k&nbsp;1. 7. 2009. Ak sú miesta vyznačené na ploche, ktorá k&nbsp;ceste vtedy nepatrila, obec ju užíva bez právneho dôvodu. To otvára nárok na vydanie bezdôvodného obohatenia a&nbsp;na ochranu vlastníctva.</li><li><b>Ide o&nbsp;miestnu, alebo účelovú komunikáciu?</b> Na účelovej komunikácii, ktorá nie je vo vlastníctve obce, môže obec podľa § 6a ods. 1 cestného zákona zaviesť platené parkovanie len so súhlasom vlastníka.</li></ol></div><aside class="note" aria-label="Poznámka na okraji: Zákon č. 135/1961 Zb., § 6a ods. 1"><b><span class="sym" aria-hidden="true">§</span>Zákon č. 135/1961 Zb., § 6a ods. 1</b>cestný zákon – dočasné parkovanie s&nbsp;platením úhrady</aside></div><div class="row"><div class="txt"><p>To, že mesto z&nbsp;pozemku priamo inkasuje parkovné, je zároveň silný argument pre výšku náhrady blížiacu sa trhovej hodnote.</p></div></div><div class="row"><div class="txt"><h2>Čo si overiť skôr, ako začnete konať</h2></div></div><div class="row"><div class="txt"><ul><li>list vlastníctva: či je v&nbsp;časti C zapísané vecné bremeno podľa zákona č. 66/2009 Z. z. a&nbsp;v&nbsp;čí prospech,</li><li>katastrálnu mapu v&nbsp;porovnaní so skutočným stavom: ktoré plochy stavba alebo cesta skutočne zaberá,</li><li>kto je vlastníkom stavby (obec, mestská časť, VÚC) a&nbsp;o&nbsp;aký druh komunikácie ide,</li><li>ako a&nbsp;kedy ste pozemok nadobudli a&nbsp;či vám už bola vyplatená nejaká náhrada,</li><li>či obec ponúkala zámenu alebo inú dohodu.</li></ul></div></div><div class="row"><div class="txt"><p>Pred žalobou je spravidla vhodné vyzvať obec na mimosúdne riešenie, napríklad nájom, odkúpenie, zámenu alebo opakovanú náhradu. Po rozhodnutiach Ústavného súdu sa na takú výzvu už nedá odpovedať jednou vetou o&nbsp;premlčaní.</p></div></div>
   <div class="row"><div class="txt">
-   <p class="cta"><b>Máte pozemok pod cestou, chodníkom alebo inou stavbou obce?</b> Napíšte nám na <a href="mailto:advokat@welter.sk">advokat@welter.sk</a>. Pomôžeme vám posúdiť, či na vašich plochách vecné bremeno vzniklo, voči komu a&nbsp;v&nbsp;akej výške si môžete náhradu uplatniť a&nbsp;či má zmysel postupovať spoločne s&nbsp;ostatnými spoluvlastníkmi.</p>
+   <p class="cta"><b>Máte pozemok pod cestou, chodníkom alebo inou stavbou obce?</b> Napíšte mi na <a href="mailto:advokat@welter.sk">advokat@welter.sk</a>. Pomôžem vám posúdiť, či na vašich plochách vecné bremeno vzniklo, voči komu a&nbsp;v&nbsp;akej výške si môžete náhradu uplatniť a&nbsp;či má zmysel postupovať spoločne s&nbsp;ostatnými spoluvlastníkmi.</p>
    <section class="sources" aria-labelledby="src-h"><h2 id="src-h">Zdroje</h2><ol><li>Zákon č. 66/2009 Z. z. o&nbsp;niektorých opatreniach pri majetkovoprávnom usporiadaní pozemkov pod stavbami (Slov-Lex)</li><li>Čl. 20 ods. 4 Ústavy Slovenskej republiky</li><li>Najvyšší súd SR, sp. zn. 8Cdo/17/2019</li><li>Ústavný súd SR: PL. ÚS 12/2025, II. ÚS 369/2025, PL. ÚS 9/2026, PLz. ÚS 1/2026 (<a href="https://www.ustavnysud.sk/sk/rozhodovacia_cinnost/rozhodnutia" target="_blank" rel="noopener">databáza rozhodnutí Ústavného súdu SR</a>)</li><li>§ 6a zákona č. 135/1961 Zb. o&nbsp;pozemných komunikáciách (cestný zákon)</li></ol></section>
    <p class="disclaimer">Článok vychádza z&nbsp;právneho stavu a&nbsp;judikatúry ku dňu 19. 10. 2026 a&nbsp;má informatívny charakter. Nenahrádza právne posúdenie konkrétneho prípadu. Rozhodnutia Ústavného súdu sú dostupné v <a href="https://www.ustavnysud.sk/sk/rozhodovacia_cinnost/rozhodnutia" target="_blank" rel="noopener">databáze rozhodnutí Ústavného súdu SR</a>.</p>
    <aside class="author" aria-label="O autorovi">
     <picture><source type="image/webp" srcset="/img/portret-640.webp"><img src="/img/portret.jpg" width="88" height="110" alt="" loading="lazy"></picture>
-    <div><h2>Mgr. Branislav Welter</h2><p>Advokát, BW AK, s.r.o.. Development, realitné a&nbsp;transakčné štruktúrovanie, majetkové a&nbsp;obchodné spory.</p><a href="/#contact">Kontakt →</a></div>
+    <div><h2>Mgr. Branislav Welter</h2><p>Advokát, BW AK, s.r.o. Development, realitné a&nbsp;transakčné štruktúrovanie, majetkové a&nbsp;obchodné spory.</p><a href="/#contact">Kontakt →</a></div>
    </aside>
   </div></div>
  </div>

diff --git a/media/index.html b/media/index.html
@@ -52,7 +52,7 @@ gtag('config','G-4FHE8V2S4T',{allow_google_signals:false,allow_ad_personalizatio
   <header class="page-head">
    <span class="kicker">Archív</span>
    <h1>Médiá</h1>
-   <p>Poisťovňa odmietne plniť. Úrad nekoná, nedoručuje, zamietne. Správca zlyhá. Práve preto, že rozumieme štruktúre systému, vieme presne pomenovať, kde sa zlomil — a&nbsp;navrhnúť nápravu. Médiá nás k&nbsp;týmto prípadom volajú ako odborný hlas:</p>
+   <p>Poisťovňa odmietne plniť. Úrad nekoná, nedoručuje, zamietne. Správca zlyhá. Práve preto, že rozumiem štruktúre systému, viem presne pomenovať, kde sa zlomil — a&nbsp;navrhnúť nápravu. Médiá ma k&nbsp;týmto prípadom volajú ako odborný hlas:</p>
   </header>
   <section class="media-lead" aria-label="Hlavný výstup">
    <article class="lead-card" id="hlavny-vystup">
@@ -863,7 +863,7 @@ gtag('config','G-4FHE8V2S4T',{allow_google_signals:false,allow_ad_personalizatio
   <p class="media-note media-note--light">V&nbsp;relácii Občan za dverami vystupuje Mgr. Branislav Welter výhradne ako nezávislý advokát, nie ako zástupca ľudí z&nbsp;reportáže. Ak sa téma týka klienta kancelárie, účinkovanie neprijíma.</p>
   <section class="press-desk" aria-labelledby="pre-media-h">
    <h2 id="pre-media-h">Pre médiá</h2>
-   <div><p>Redakcie môžu advokáta osloviť e-mailom na <a href="mailto:advokat@welter.sk">advokat@welter.sk</a> alebo telefonicky na <a href="tel:+421908849910">+421&nbsp;908&nbsp;849&nbsp;910</a>.</p>
+   <div><p>Redakcie ma môžu osloviť e-mailom na <a href="mailto:advokat@welter.sk">advokat@welter.sk</a> alebo telefonicky na <a href="tel:+421908849910">+421&nbsp;908&nbsp;849&nbsp;910</a>.</p>
    <p>Titulky výstupov na tomto webe sú vlastné a&nbsp;vecné; pôvodné titulky a&nbsp;celé reportáže sú na weboch médií.</p></div>
   </section>
  </div>

diff --git a/assets/css/site.css b/assets/css/site.css
@@ -780,6 +780,16 @@ a:hover .play, a:focus-visible .play { background: #FFFFFF; }
 .year__h h2 { font-size: 3rem; }
 .register h2 { font-size: 2.5rem; border-bottom: 2px solid var(--ink); }
 .reg td.t { font-family: var(--sans); font-weight: 600; font-size: 1rem; }
+/* register na mobile: dátum + popisky v jednom riadku, titulok pod nimi */
+@media (max-width: 719px) {
+  .reg tr { display: flex; flex-wrap: wrap; align-items: baseline; gap: 0 10px; padding: 12px 0; }
+  .reg tr[hidden] { display: none; }
+  .reg td { padding: 0; line-height: 1.5; }
+  .reg td:first-child, .reg td.c-med, .reg td.c-tema, .reg td.c-typ { font-family: var(--mono); font-size: .75rem; color: var(--ink-2); }
+  .reg td:first-child { color: var(--ink); font-weight: 700; }
+  .reg td.t { flex-basis: 100%; margin-top: 4px; }
+  .reg td.c-med::before, .reg td.c-tema::before, .reg td.c-typ::before { content: "· "; color: var(--muted, #777); }
+}
 .card--paper { border-top: 2px solid var(--ink); }
 .card--paper .quote-mark, .paper-card .quote-mark { font-family: var(--serif); color: var(--red); }
 .media-lead .ext:hover { color: var(--ink); background: var(--lime); }
